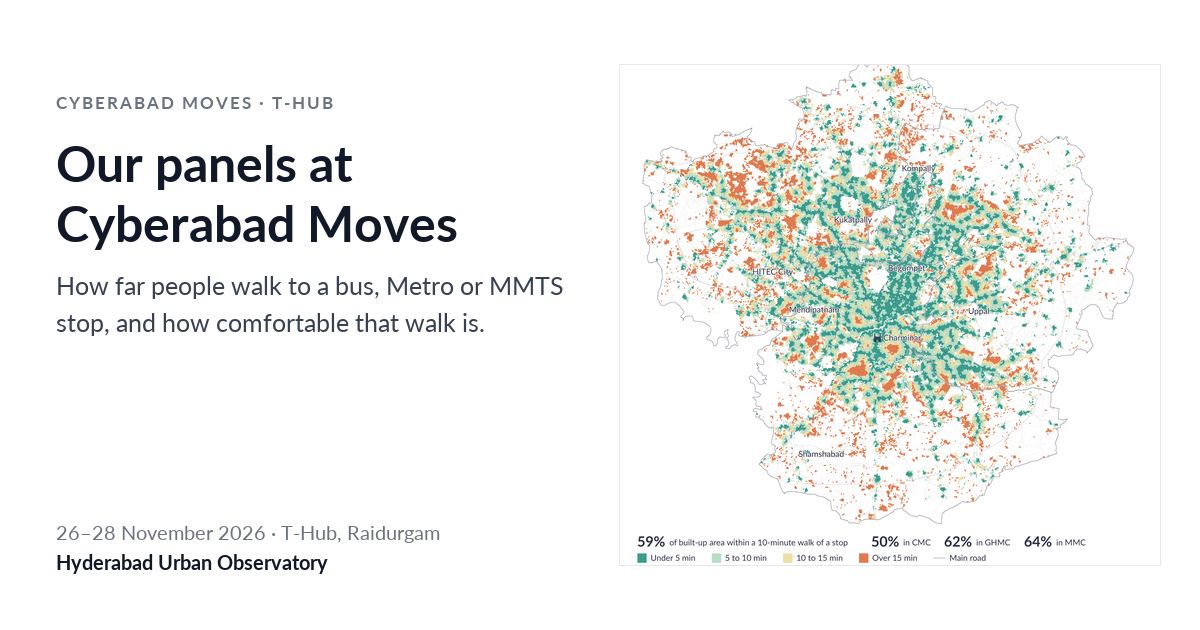
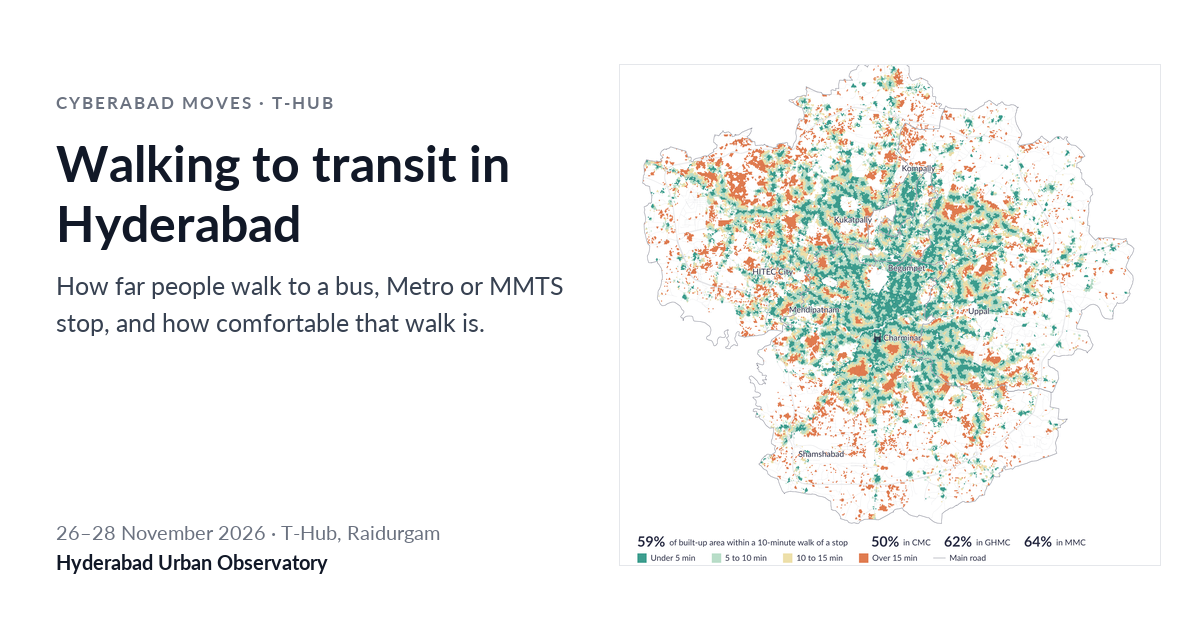
Cyberabad Moves story: title 'Walking to transit in Hyderabad', contribute message

Changed region(s): [[0.0308, 0.2111, 0.4317, 0.3016], [0.0308, 0.3317, 0.4008, 0.3921]]

diff --git a/public/cyberabad-moves/index.html b/public/cyberabad-moves/index.html
@@ -3,13 +3,13 @@
 <head>
 <meta charset="utf-8">
 <meta name="viewport" content="width=device-width, initial-scale=1">
-<title>Our panels at Cyberabad Moves · Hyderabad Urban Observatory</title>
+<title>Walking to transit in Hyderabad · Hyderabad Urban Observatory</title>
 <meta name="description" content="Two panels for Cyberabad Moves at T-Hub, 26–28 November 2026: how far people walk to a bus, Metro or MMTS stop, and how comfortable that walk is.">
 <link rel="icon" type="image/svg+xml" href="../favicon.svg">
 <link rel="icon" type="image/png" sizes="32x32" href="../favicon-32.png">
 <meta property="og:type" content="article">
 <meta property="og:site_name" content="Hyderabad Urban Observatory">
-<meta property="og:title" content="Our panels at Cyberabad Moves">
+<meta property="og:title" content="Walking to transit in Hyderabad">
 <meta property="og:description" content="How far people walk to a bus, Metro or MMTS stop, and how comfortable that walk is. Two panels for Cyberabad Moves at T-Hub, 26–28 November 2026.">
 <meta property="og:url" content="https://hyderabad.urbanobservatory.in/stories/cyberabad-moves/">
 <meta property="og:image" content="https://hyderabad.urbanobservatory.in/stories/cyberabad-moves/share.png">
@@ -127,8 +127,8 @@ header.bar{justify-content:space-between;gap:16px}
 
 <div class="intro">
   <div class="eyebrow">Accessibility &amp; mobility · Cyberabad Moves</div>
-  <h1>Our panels at Cyberabad Moves</h1>
-  <p class="stand">Cyberabad Moves is a three-day mobility exhibition at T-Hub, Raidurgam, from 26 to 28 November 2026, 9 am to 6 pm. We made two panels for it: how far people walk to a bus, Metro or MMTS stop, and how comfortable that walk is.</p>
+  <h1>Walking to transit in Hyderabad</h1>
+  <p class="stand">How far is the nearest bus, Metro or MMTS stop, and how comfortable is the walk there? On show at Cyberabad Moves, T-Hub, Raidurgam, 26–28 November 2026, 9 am to 6 pm. There is no public data yet on footpaths, crossings or shelters at bus stops. <a href="https://hyderabad.urbanobservatory.in/contribute/">Contribute data on this link</a> to build it.</p>
   <p class="org">Organised by the Cyberabad Municipal Corporation, Cyberabad Police and the Society for Cyberabad Security Council, in partnership with the SHIFT Transport coalition. More at <a href="https://cyberabadmoves.in">cyberabadmoves.in</a>.</p>
 </div>
 

diff --git a/src/pages/Stories.jsx b/src/pages/Stories.jsx
@@ -23,7 +23,7 @@ const CARDS = [
   {
     themes: ['ACCESSIBILITY'],
     themeLabel: 'ACCESSIBILITY & MOBILITY',
-    title: 'Our panels at Cyberabad Moves',
+    title: 'Walking to transit in Hyderabad',
     href: `${import.meta.env.BASE_URL}cyberabad-moves/`,
     description: 'Two panels for the Cyberabad Moves exhibition at T-Hub, 26–28 November 2026: how far people walk to a bus, Metro or MMTS stop, and how comfortable that walk is. And how you can help build open data for Hyderabad.',
   },
